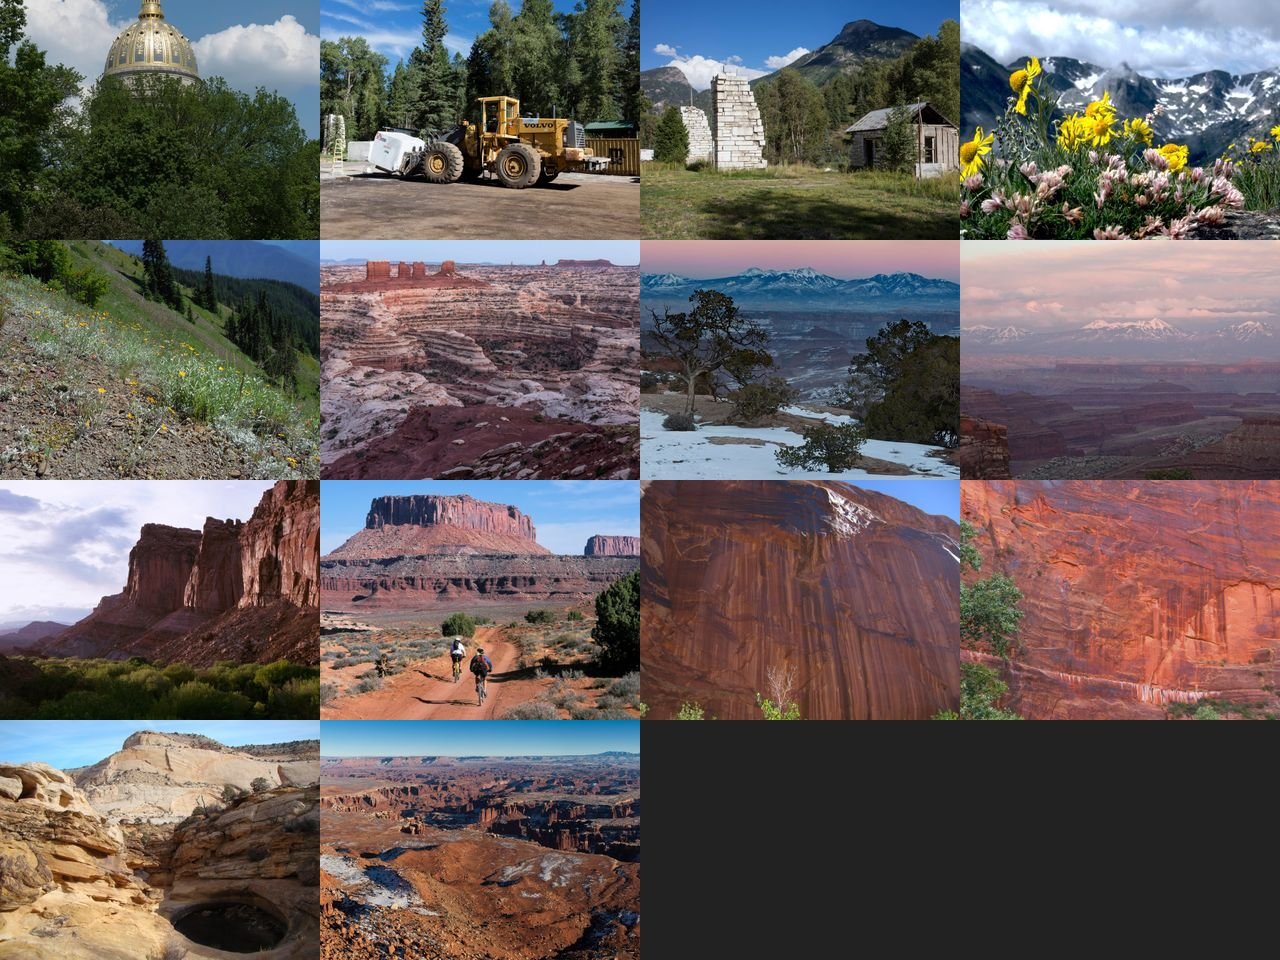
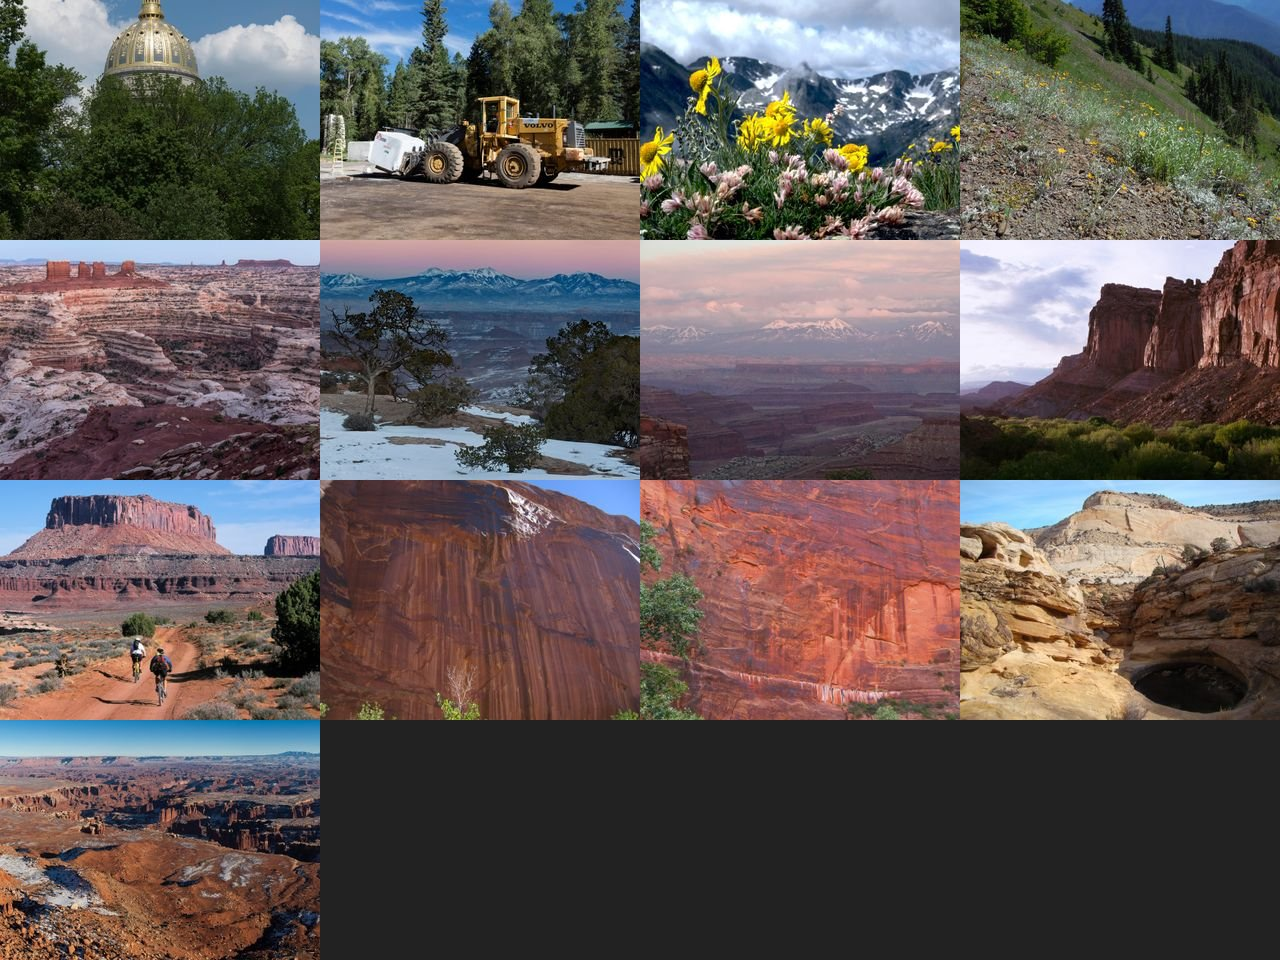
Finalize the GA-2 reference set per Scott's approval
Scott reviewed the contact sheet: cut weathered-marble-columns (weak
pick), kept the other 13 including the flagged machinery and winter
shots. SOURCES.md records the approval; the bar is now fixed and GA-3 is
unblocked.

diff --git a/apps/world-engine/shots/ref/SOURCES.md b/apps/world-engine/shots/ref/SOURCES.md
@@ -44,7 +44,6 @@ STRUCTURE / ATMOSPHERE photography lives here.
 | --- | --- | --- | --- | --- |
 | gold-leaf-dome-wv-capitol.jpg | [Commons: gold-leaf dome, West Virginia Capitol (LCCN2015631769)](https://commons.wikimedia.org/wiki/File:The_gold-leaf_dome_of_the_West_Virginia_Capitol_in_Charleston_LCCN2015631769.tif) | Carol M. Highsmith (LoC) | Public domain | MATERIAL — real gold leaf in daylight: specular response, warmth |
 | quarried-white-marble-block.jpg | [Commons: freshly quarried white marble block (LCCN2015633932)](https://commons.wikimedia.org/wiki/File:A_frontloader_deposits_a_multi-ton,_freshly_quarried_block_of_white_marble_at_the_processing_facility_owned_by_Colorado_Stone_Quarries_in_the_aptly_named_town_of_Marble_in_Gunnison_County,_Colorado_LCCN2015633932.tif) | Carol M. Highsmith (LoC) | Public domain | MATERIAL — massive cut white stone: subsurface glow, saw faces |
-| weathered-marble-columns-outdoors.jpg | [Commons: Colorado-Yule marble columns (LCCN2015633767)](https://commons.wikimedia.org/wiki/File:Columns_of_marble_that_were_once_part_of_the_Colorado-Yule_Mining_Company%27s_thriving_processing_mill%27s_foundation_in_the_tiny_town_of_Marble_in_Colorado%27s_Crystal_River_Valley_still_stand_at_what_is_LCCN2015633767.tif) | Carol M. Highsmith (LoC) | Public domain | MATERIAL — white stone weathering outdoors, edge wear |
 
 ## sky/ — atmosphere at the fixed 17:00 light
 
@@ -58,6 +57,12 @@ Known gap: no dedicated desert cumulus/cloud reference — public-domain
 candidates were thin. The Trail Ridge image in plateau/ carries the best
 cloud form in the set. A cloud reference Scott likes can be added later as
 a logged swap.
+
+APPROVED by Scott 2026-08-19 (13 images): he reviewed the contact sheet,
+cut the weathered-marble-columns image (weak — small in frame beside a
+shack), and kept everything else including the flagged machinery and
+winter shots. This is the standing GA-3 bar; changes from here are logged
+swaps.
 
 Curation notes (2026-08-19 first pass): three initial picks were replaced
 after visual review — the original "Grand View Point (8971039797)" turned

diff --git a/apps/world-engine/STATUS.md b/apps/world-engine/STATUS.md
@@ -138,6 +138,12 @@ feedback comes in chat; the two-frame test is the agent-side acceptance only.
 > in sync with `docs/roadmap.md` and `RENDERING-DECISIONS.md`, which any future
 > session should also read.
 
+**(2026-08-19, latest) GA-2 APPROVED.** Scott reviewed the contact sheet,
+cut the weathered-marble-columns image, kept the other 13 (flagged
+machinery/winter shots included). The bar is fixed; GA-3 is unblocked —
+its paste-ready prompt is in docs/plans/gauntlet-adoption-far-country.md,
+launch night is Scott's call.
+
 **(2026-08-19, later still) GA-2 REFERENCE SET DRAFTED — awaiting Scott's
 approval pass.** Scott approved the CC0-commit approach; 14 public-domain/
 CC0 photographs now live under shots/ref/ ({wilderness,plateau,
